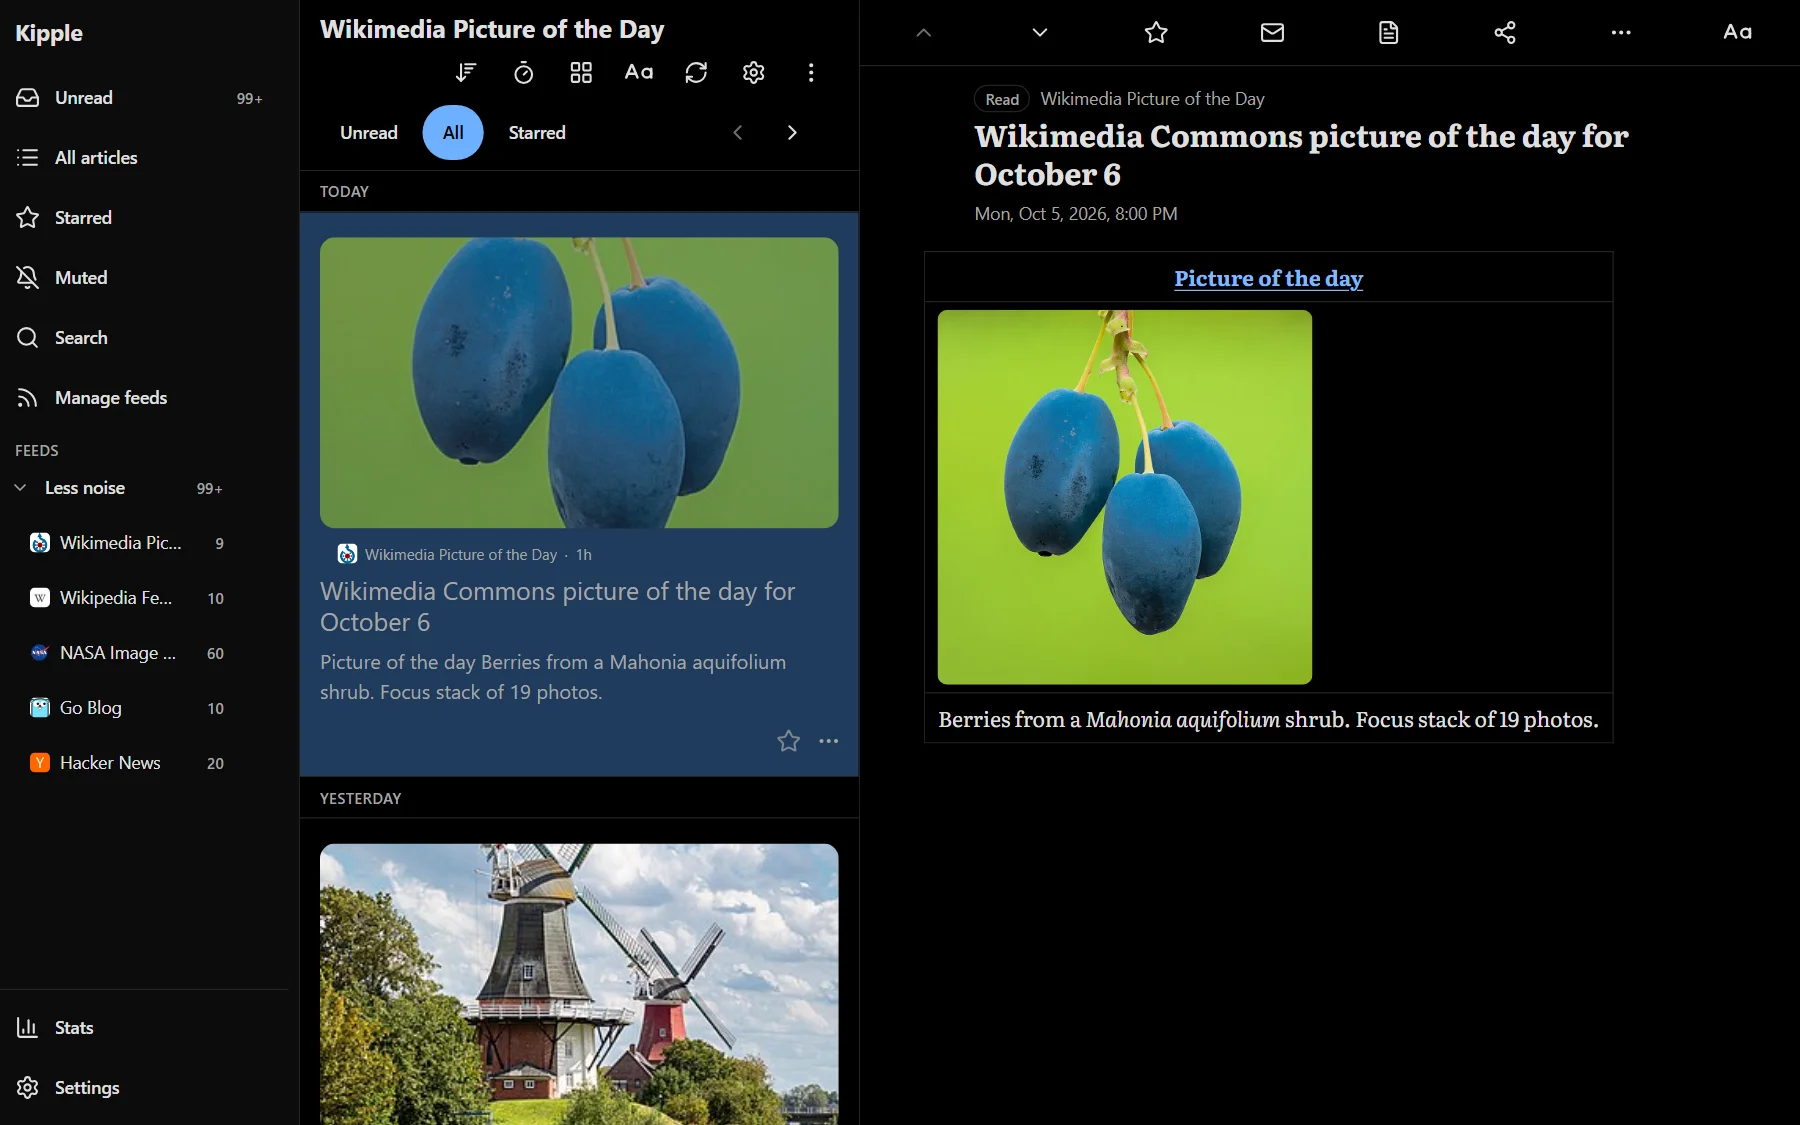
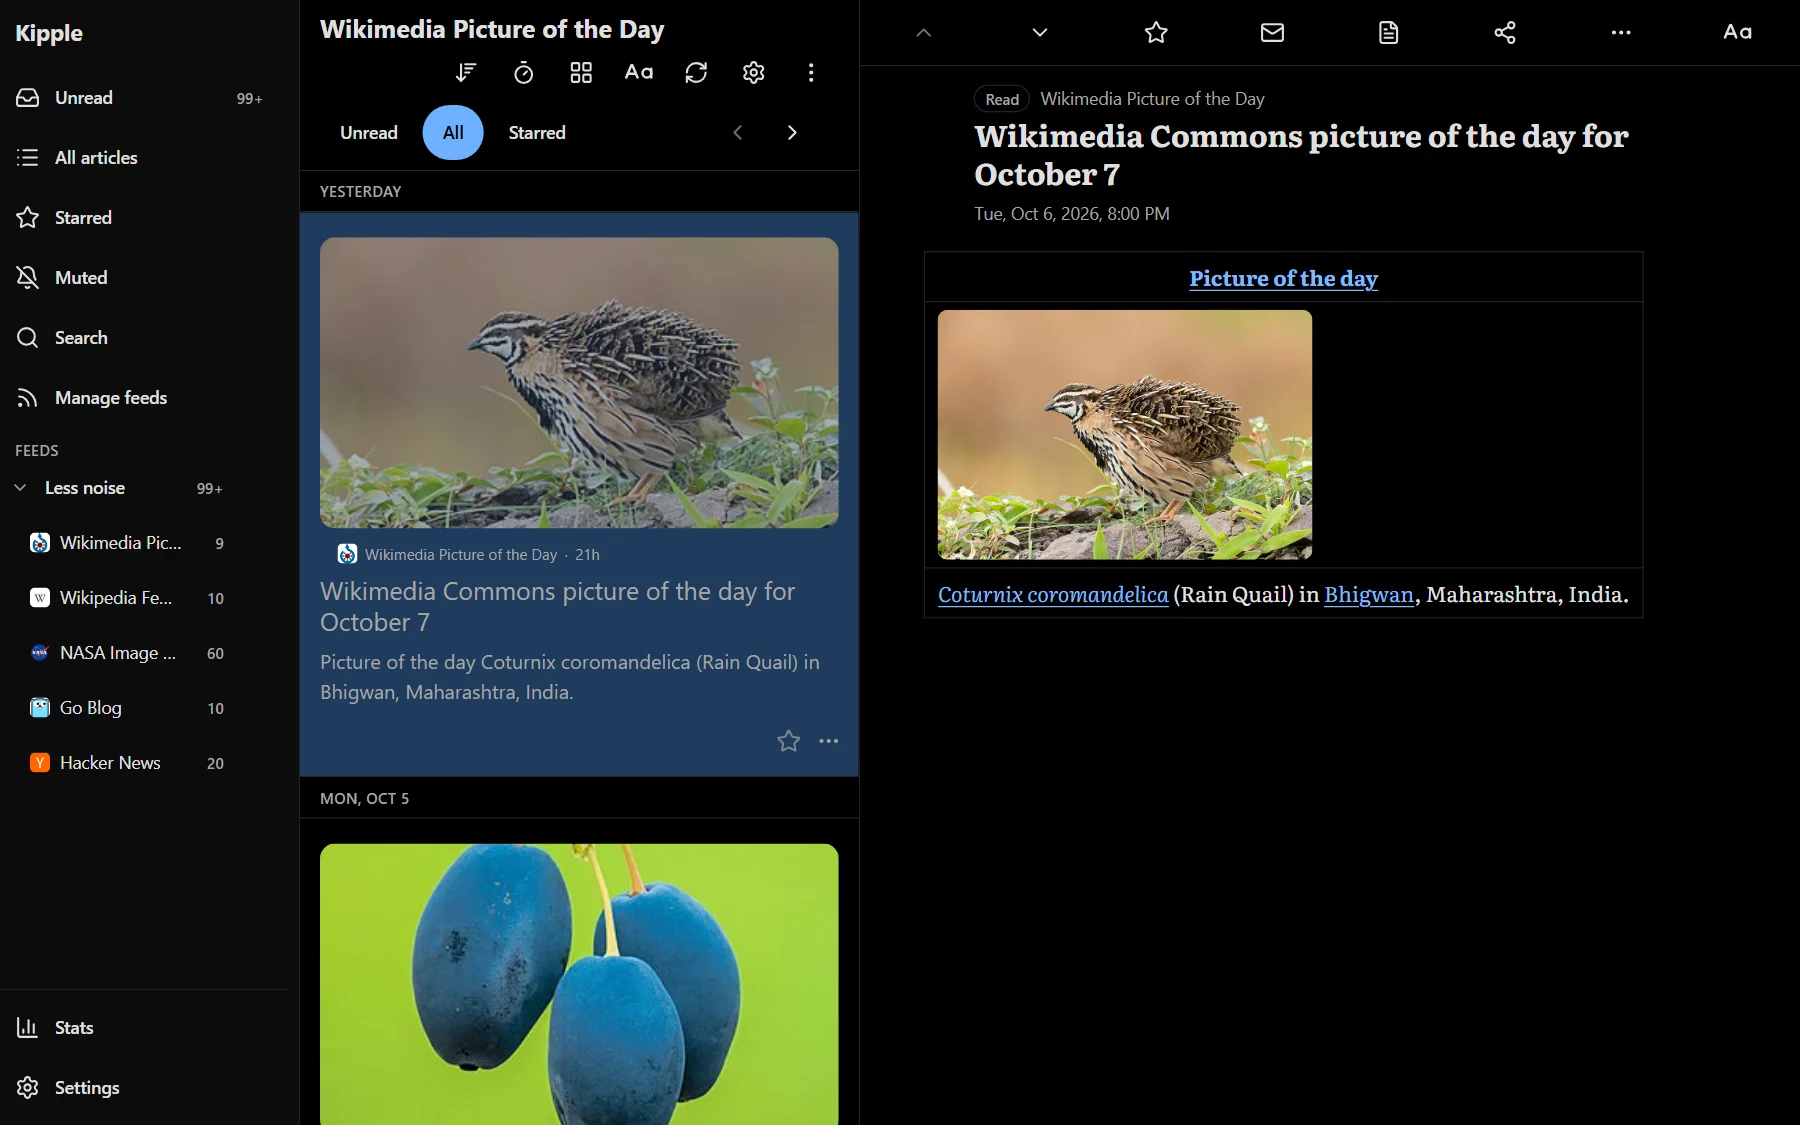
chore: v0.8.0-beta.5 version text and screenshots

diff --git a/index.html b/index.html
@@ -81,7 +81,7 @@
       </div>
       <p class="shots-note">The web app in Paper and Midnight, on desktop and on a phone. The sample feeds are public ones, including the Wikimedia Commons picture of the day. Photo credits and licenses are on Commons.</p>
       <figure class="shot wide">
-        <img src="screenshots/desktop-paper.webp" width="1800" height="1125" alt="Kipple on a desktop in the Paper color scheme. A feed list on the left with a Less noise folder holding two nested folders of feeds, article cards in the middle with a large photo of a jabiru and its chicks, and the article open on the right.">
+        <img src="screenshots/desktop-paper.webp" width="1800" height="1125" alt="Kipple on a desktop in the Paper color scheme. A feed list on the left with a Less noise folder holding five feeds, article cards in the middle with a large photo of a rain quail, and the article open on the right.">
       </figure>
       <div class="shot-row">
         <figure class="shot">
@@ -157,11 +157,11 @@
         <p>Kipple is a signed Docker image for linux/amd64 and linux/arm64. There are no config files to edit. It asks for what it needs in your browser the first time you open it.</p>
       </div>
       <div>
-<pre><code>docker run -d --name kipple --restart unless-stopped -p 127.0.0.1:1919:1919 -v kipple_data:/data --read-only --tmpfs /tmp:size=64m,mode=1777 --cap-drop ALL --security-opt no-new-privileges ghcr.io/wptk/kipple:0.8.0-beta.3</code></pre>
+<pre><code>docker run -d --name kipple --restart unless-stopped -p 127.0.0.1:1919:1919 -v kipple_data:/data --read-only --tmpfs /tmp:size=64m,mode=1777 --cap-drop ALL --security-opt no-new-privileges ghcr.io/wptk/kipple:0.8.0-beta.5</code></pre>
         <p class="after-code">Or the same thing as a compose file. Save it as <code>docker-compose.yml</code> and run <code>docker compose up -d</code>.</p>
 <pre><code>services:
   kipple:
-    image: ghcr.io/wptk/kipple:0.8.0-beta.3
+    image: ghcr.io/wptk/kipple:0.8.0-beta.5
     container_name: kipple
     restart: unless-stopped
     ports: ["127.0.0.1:1919:1919"]
@@ -204,7 +204,7 @@ volumes:
   <section class="sect">
     <div class="wrap">
       <h2>Where it stands</h2>
-      <p class="status"><span class="mono">v0.8.0-beta.4</span> is the current build. A new install opens on a form that creates your account or restores a backup, and Kipple is also published as a signed Docker image. Fetching, sync, the reading UI, nested folders, the installable offline-capable app, and reading stats with a yearly Wrapped all run daily. Testing before 1.0 is under way. The diary, decisions and dead ends from building it are in <a href="https://github.com/WPTK/kipple-history">kipple-history</a>.</p>
+      <p class="status"><span class="mono">v0.8.0-beta.5</span> is the current build. A new install opens on a form that creates your account or restores a backup, and Kipple is also published as a signed Docker image. Fetching, sync, the reading UI with a newspaper-style Gazette layout, nested folders, the installable offline-capable app, and reading stats with a yearly Wrapped all run daily. Testing before 1.0 is under way. The diary, decisions and dead ends from building it are in <a href="https://github.com/WPTK/kipple-history">kipple-history</a>.</p>
     </div>
   </section>
 </main>

diff --git a/design-system/DESIGN-SYSTEM.md b/design-system/DESIGN-SYSTEM.md
@@ -263,11 +263,11 @@ for reduced motion. No other animation.
 - `screenshots/`: four WebP files listed in the Screenshots component, plus three wizard shots (`wizard-account.webp` 864 x 1289, `wizard-timezone.webp` 864 x 1113, `wizard-theme.webp` 864 x 1344) shown in the First run section as `.shot-row.steps` (three equal columns, one column at or below 832px). The wizard shots were taken on 2026-10-03 at app commit `28768e2` (`v0.7.0-beta.1`) from a throwaway instance started with `KIPPLE_SEED_SET=fresh npm run seed`, in a 1000px wide viewport at 1.5x with the Paper scheme, each cropped to the 576px wide wizard column and as tall as its content (steps 1 to 3 of 6). Captured from a throwaway instance of the app
   by the app repo's `web/scripts/site-shots.mjs` (run at every release, `docs/RELEASING.md` step 12), after
   `KIPPLE_SEED_SET=site npm run seed`, which seeds Wikimedia Picture of the Day, Wikipedia Featured Article, NASA
-  Image of the Day, Go Blog and Hacker News in a folder named "Less noise". Last captured 2026-10-05 at app commit
-  `v0.8.0-beta.3` (`2896ded`), straight from the seed with no extra folders, so the sidebar shows the single "Less noise" folder. Desktop: a 1440 x 900 viewport at 1.25x, giving 1800 x 1125 directly. Phone: 390 x 844
+  Image of the Day, Go Blog and Hacker News in a folder named "Less noise". Last captured 2026-10-07 at app commit
+  `v0.8.0-beta.5` (`2b7dcc6`), straight from the seed with no extra folders, so the sidebar shows the single "Less noise" folder. Desktop: a 1440 x 900 viewport at 1.25x, giving 1800 x 1125 directly. Phone: 390 x 844
   at 1.5x, giving 585 x 1266. The list uses the device's default layout (Editorial). Light is the app's Paper scheme.
   Dark is the app following a dark system setting, which gives Midnight. Article shown: the Wikimedia Commons picture
-  of the day for October 6 (blue berries of a Mahonia aquifolium shrub). The WebP files are encoded by the browser
+  of the day for October 7 (a Rain Quail, Coturnix coromandelica). The WebP files are encoded by the browser
   at quality 0.85. `og.png` is re-rendered by the same script from `design-system/social-preview.html`.
 - The hero sample panel (unread count 420) is HTML and CSS, not a screenshot.
 - Favicon: `favicon.svg`, `favicon.ico` (16, 32 and 48 px), `apple-touch-icon.png` (180 x 180).
